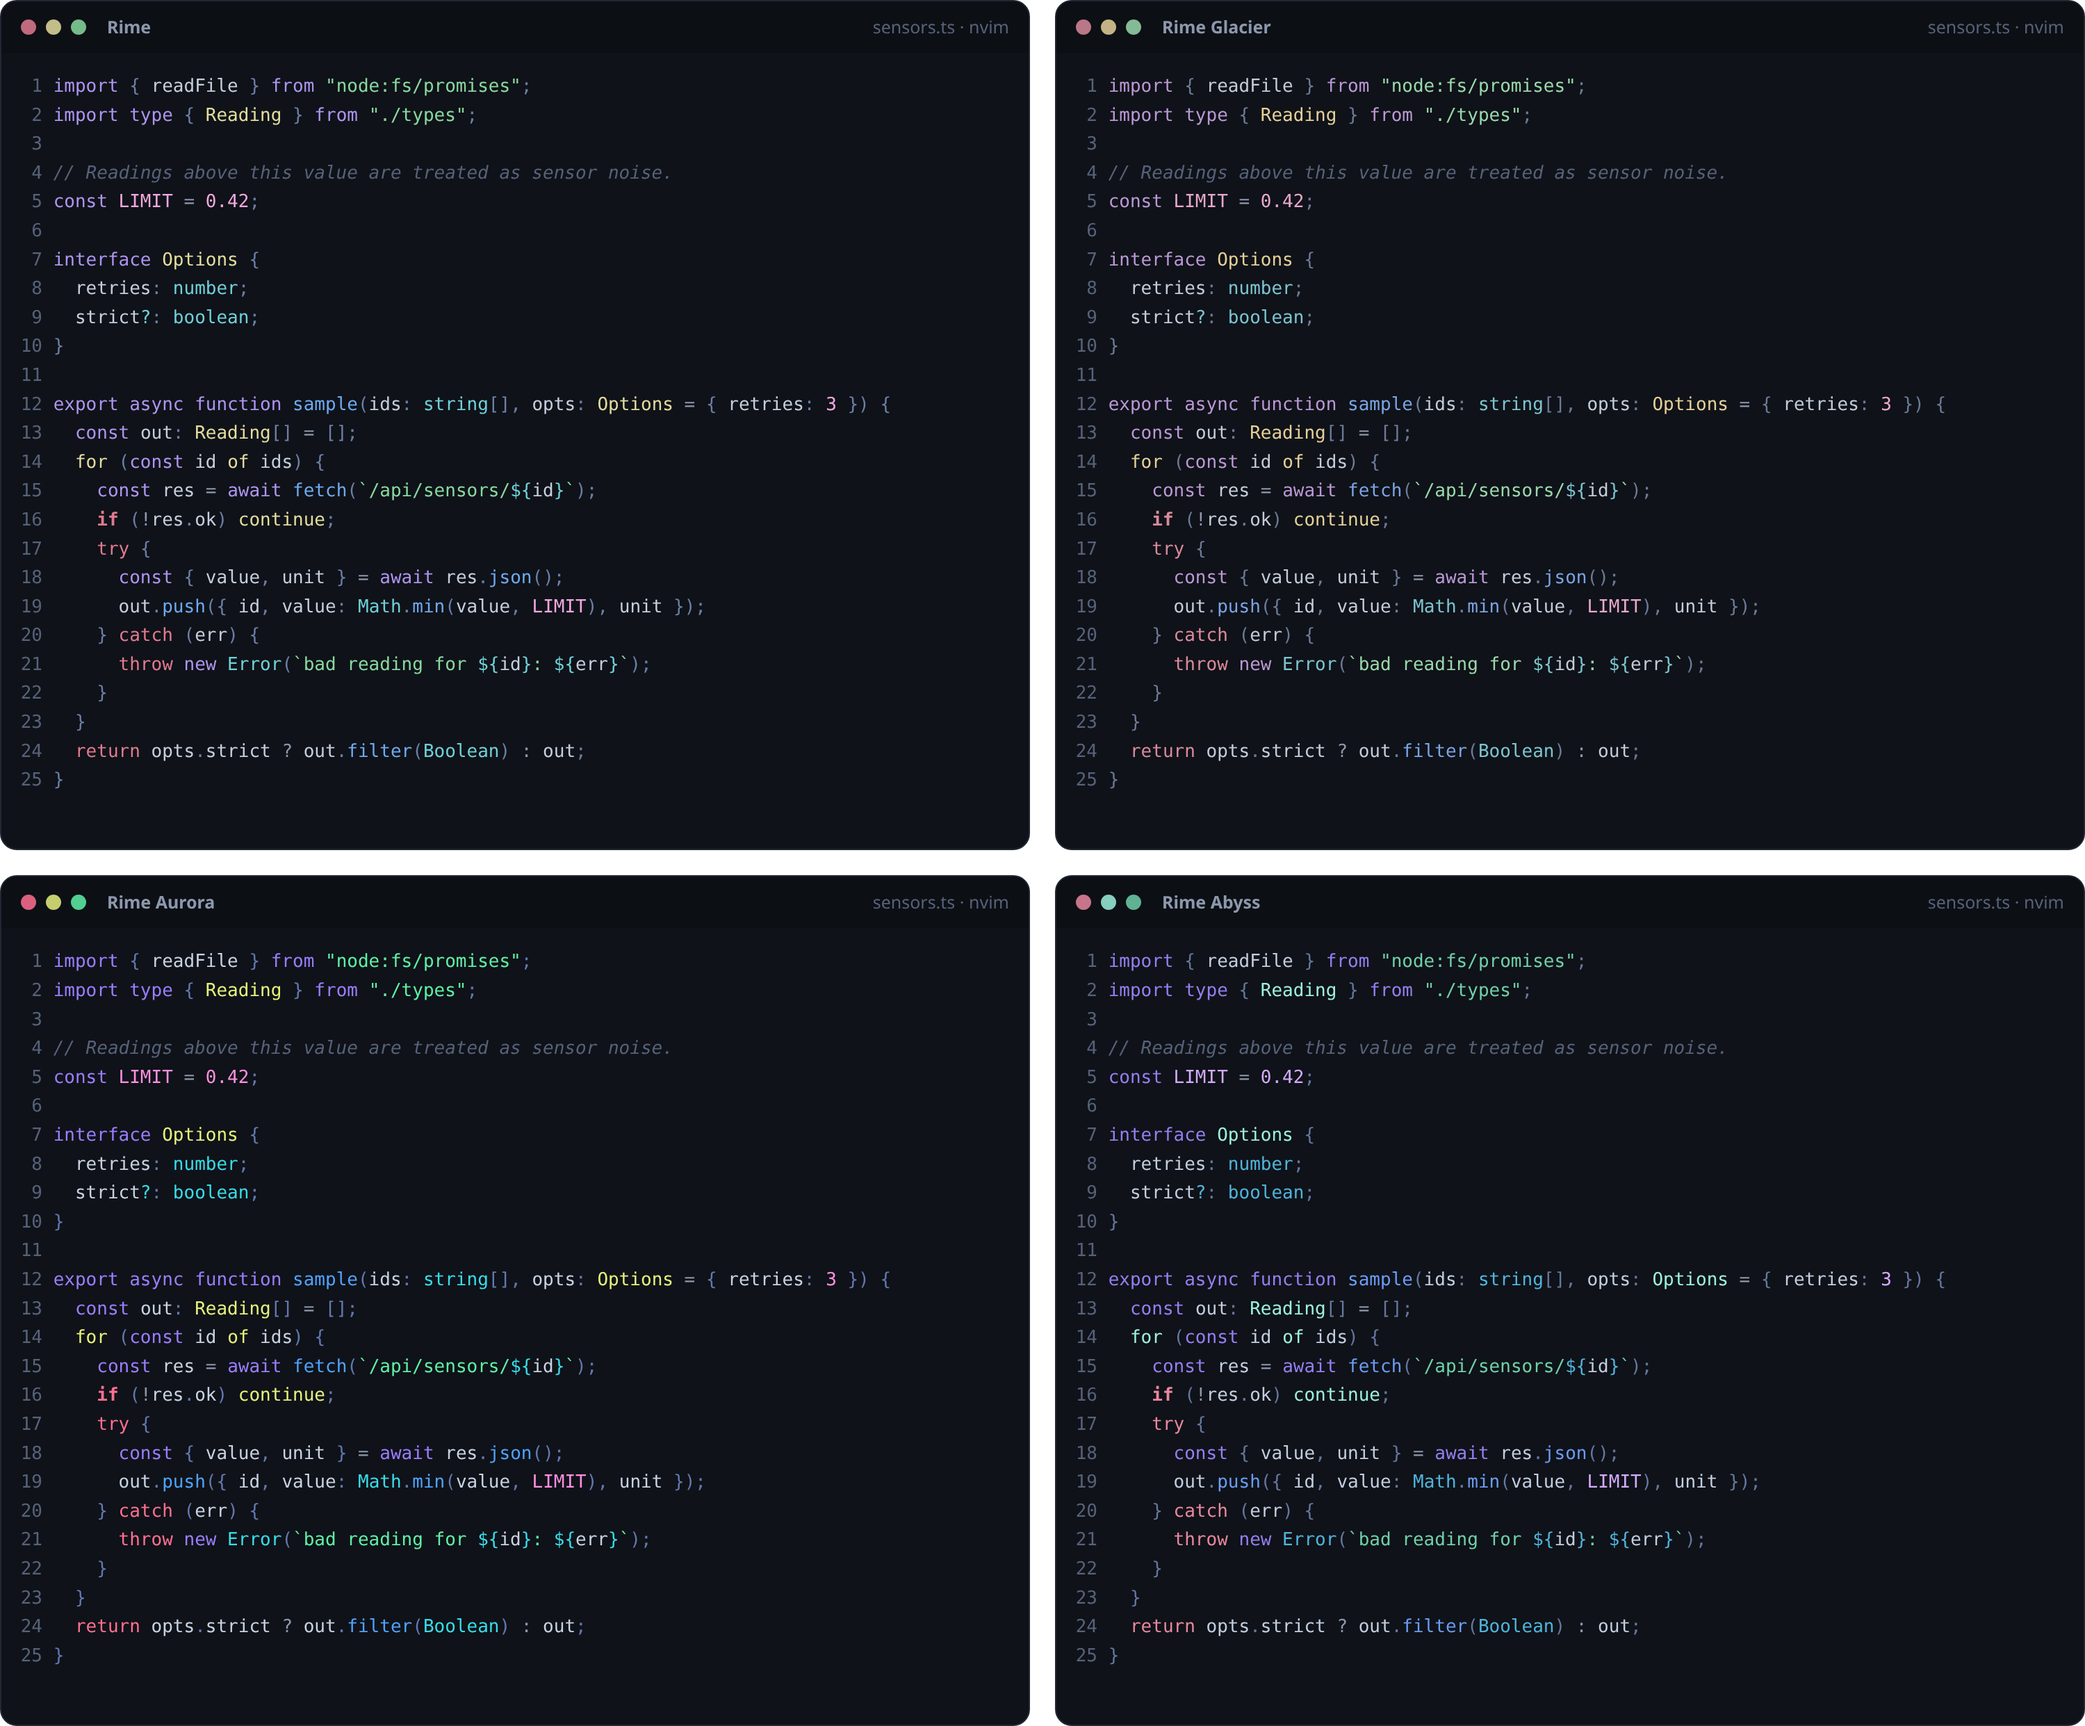
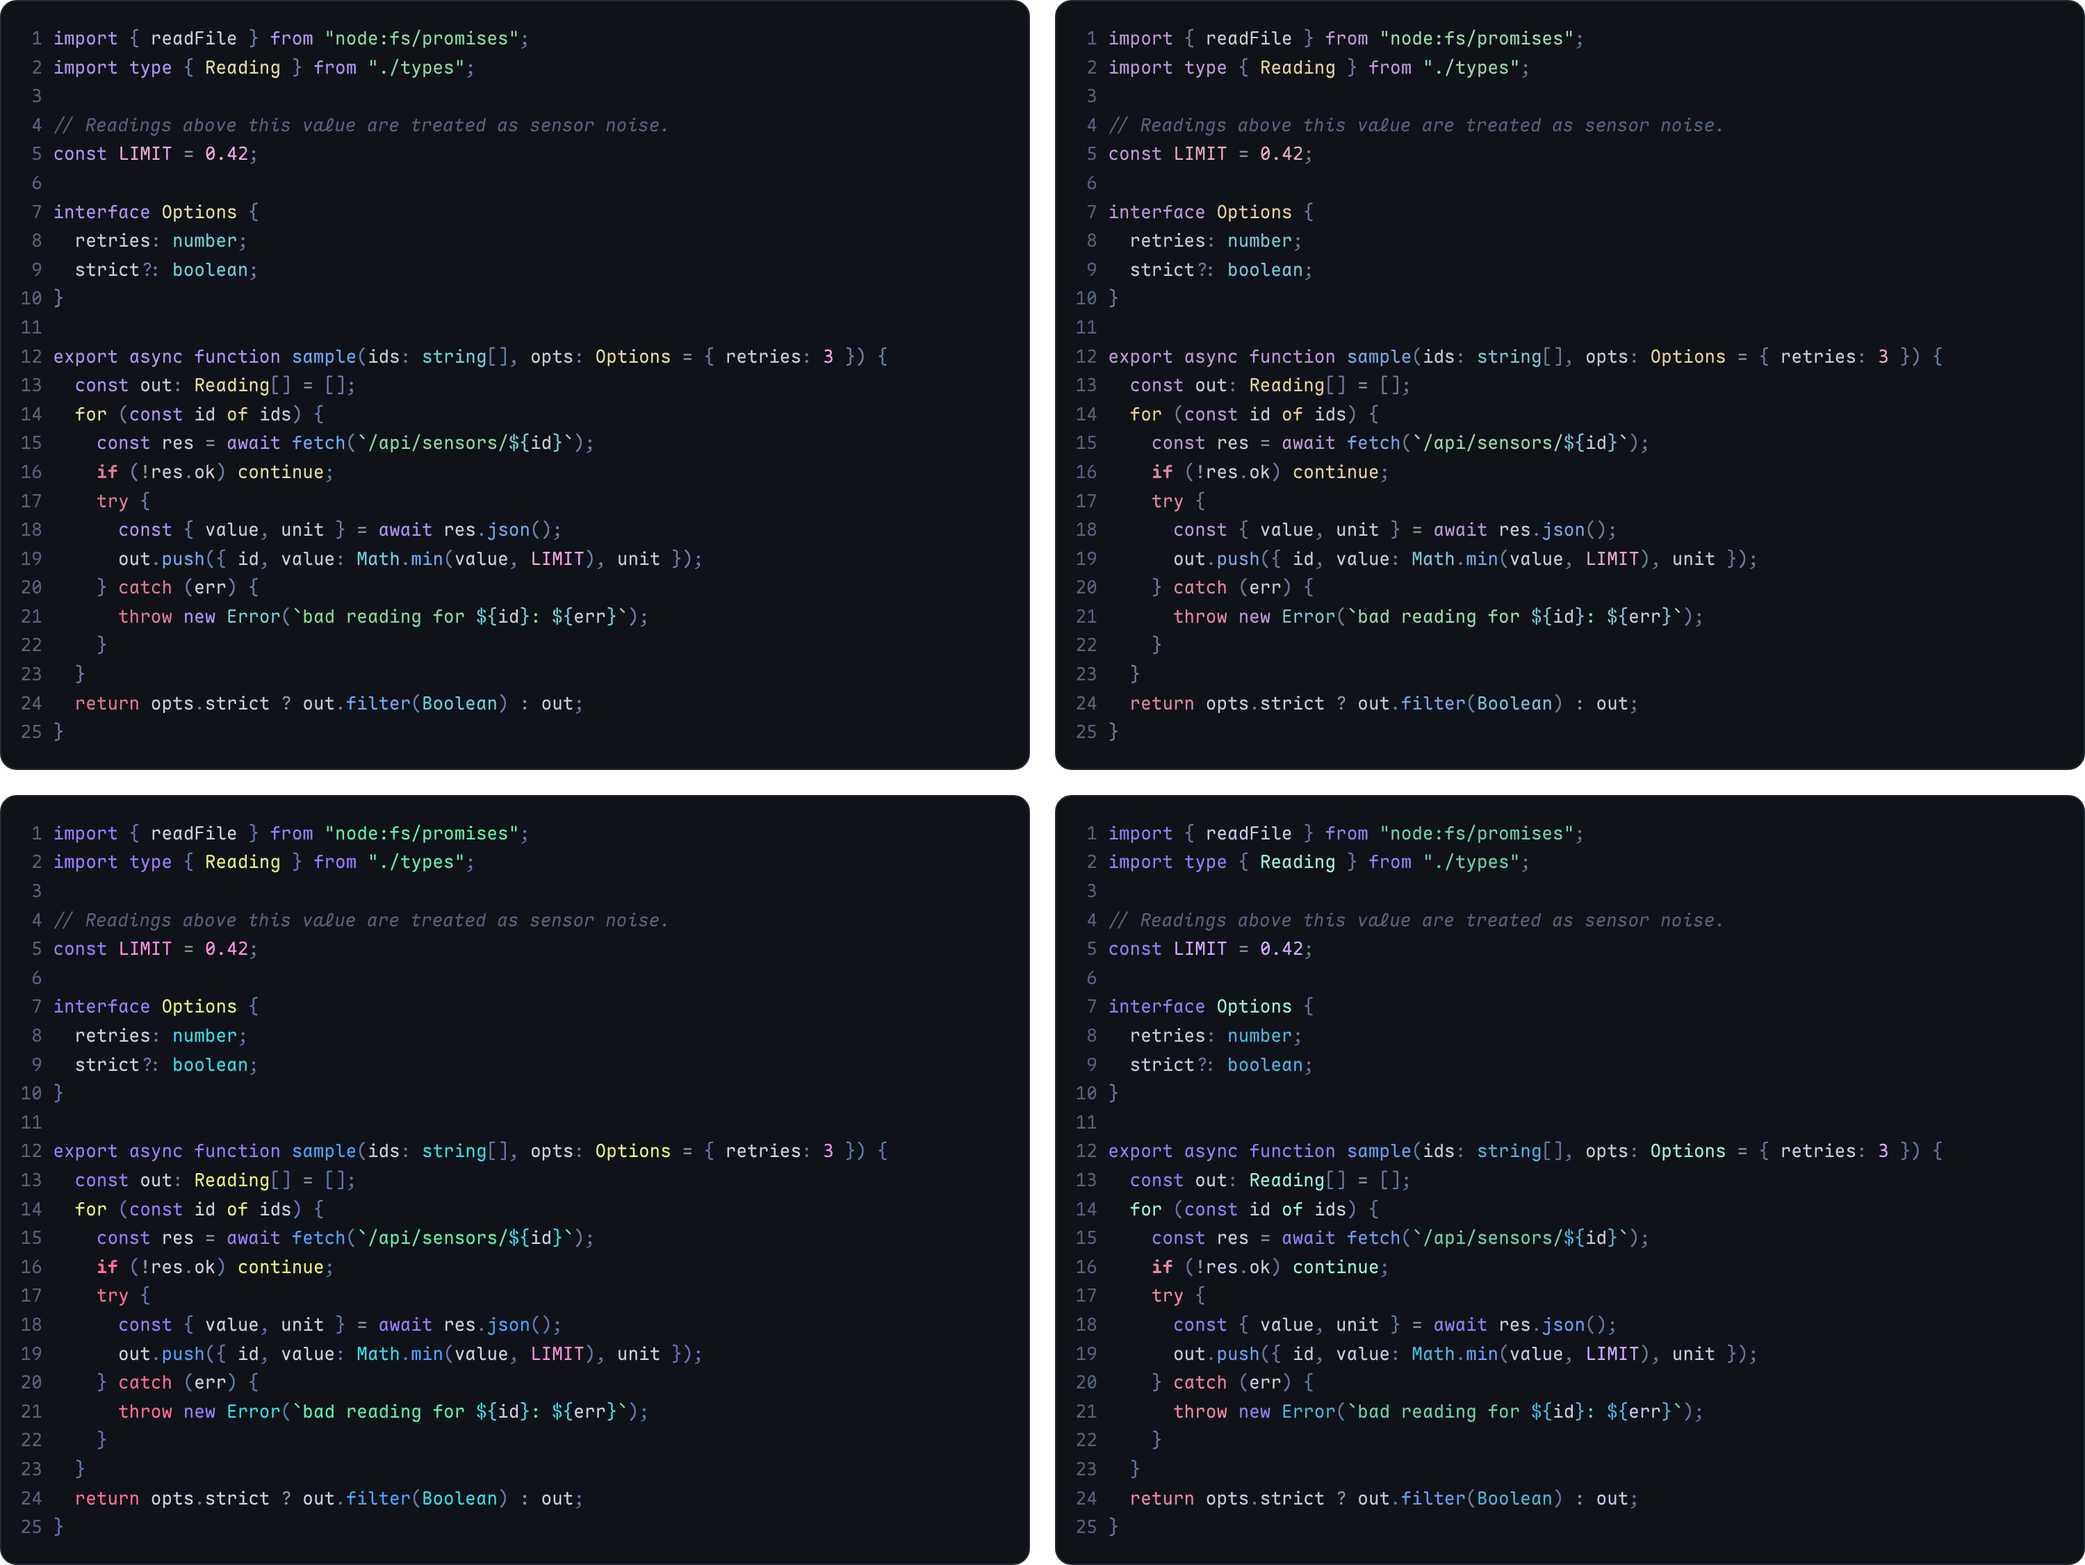
Render screenshots in Maple Mono NF without a title bar, trim README intro

diff --git a/tools/screenshots/compose.py b/tools/screenshots/compose.py
@@ -1,11 +1,8 @@
 # usage: compose.py <shots-dir> <out.html> <cols> <slug>...
-# Wraps nvim :TOhtml exports (<shots-dir>/<slug>.html) in editor-window frames.
+# Wraps nvim :TOhtml exports (<shots-dir>/<slug>.html) in rounded code panes.
 import sys, re, json, pathlib
 shots, out, cols, slugs = sys.argv[1], sys.argv[2], int(sys.argv[3]), sys.argv[4:]
 PALETTES = pathlib.Path(__file__).resolve().parents[2] / "palettes"
-names = {"rime": "Rime", "rime-glacier": "Rime Glacier", "rime-aurora": "Rime Aurora", "rime-abyss": "Rime Abyss"}
-def mixblack(h, t=0.18):
-    return "#" + "".join(f"{round(int(h[i:i+2],16)*(1-t)):02x}" for i in (1,3,5))
 css, panes = [], []
 for slug in slugs:
     html = open(f"{shots}/{slug}.html").read()
@@ -18,18 +15,14 @@ for slug in slugs:
         if sel == "*": continue
         if sel == "body": css.append(f".v-{slug} {{{decl}}}"); continue
         css.append(f".v-{slug} {sel} {{{decl}}}")
-    pre = re.search(r"<pre>(.*?)</pre>", html, re.S)[1]
-    panes.append(f'<div class="win v-{slug}" style="border-color:{pal["base02"]}"><div class="bar" style="background:{mixblack(pal["base00"])};color:{pal["base04"]}">'
-                 f'<i style="background:{pal["base08"]}"></i><i style="background:{pal["base0A"]}"></i><i style="background:{pal["base0B"]}"></i>'
-                 f'<span>{names[slug]}</span><em style="color:{pal["base03"]}">sensors.ts · nvim</em></div><pre>{pre}</pre></div>')
+    # drop the trailing newline so the pane ends right after the last line
+    pre = re.search(r"<pre>(.*?)</pre>", html, re.S)[1].rstrip()
+    panes.append(f'<div class="win v-{slug}" style="border-color:{pal["base02"]}"><pre>{pre}</pre></div>')
 page = f"""<!doctype html><html><head><meta charset="utf-8"><style>
 body{{margin:0;background:transparent}}
 .grid{{display:grid;grid-template-columns:repeat({cols},1fr);gap:18px;padding:0}}
 .win{{border-radius:12px;overflow:hidden;border:1px solid}}
-.bar{{display:flex;align-items:center;gap:7px;padding:10px 14px;font:600 12.5px ui-sans-serif,system-ui,sans-serif}}
-.bar i{{width:11px;height:11px;border-radius:50%;display:inline-block;opacity:.85}}
-.bar span{{margin-left:8px}} .bar em{{margin-left:auto;font-style:normal;font-weight:400}}
-pre{{margin:0;padding:14px 18px 18px 6px;font:13px/1.6 "JetBrains Mono","Fira Code","DejaVu Sans Mono",monospace;overflow:hidden;white-space:pre}}
+pre{{margin:0;padding:16px 18px 16px 6px;font:13px/1.6 "Maple Mono NF",monospace;overflow:hidden;white-space:pre}}
 {chr(10).join(css)}
 </style></head><body><div class="grid">{''.join(panes)}</div></body></html>"""
 open(out, "w").write(page)

diff --git a/README.md b/README.md
@@ -2,11 +2,7 @@
 
 a colder colorscheme
 
-<img width="560" alt="demo" src="assets/screenshot-rime.png" />
-
-*the font used is dejavu sans mono. the screenshots are real neovim output*
-
-it started as the opposite of [bark](https://github.com/if-not-nil/bark), with one dark pro as the reference for how the syntax colors fit together
+It is a opposite of [bark](https://github.com/if-not-nil/bark) with a mix of [one dark pro](https://github.com/Binaryify/OneDark-Pro)
 
 **variants**
 
